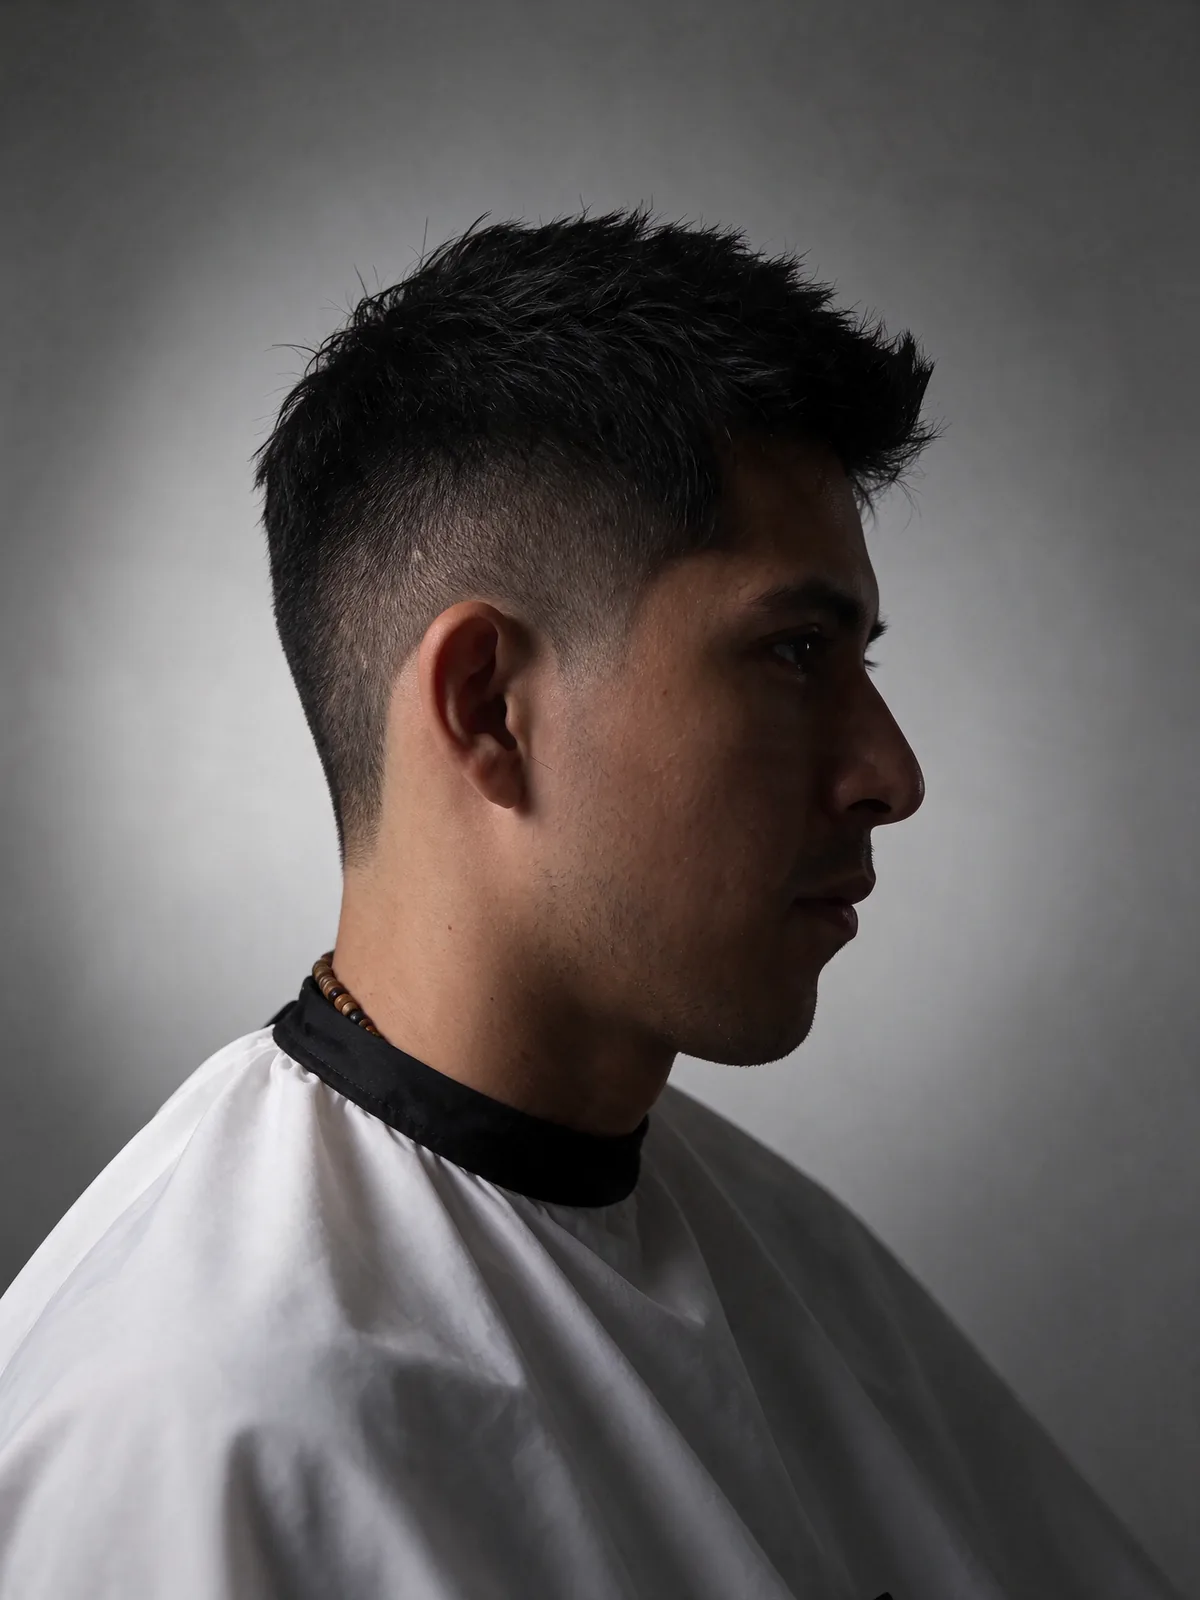
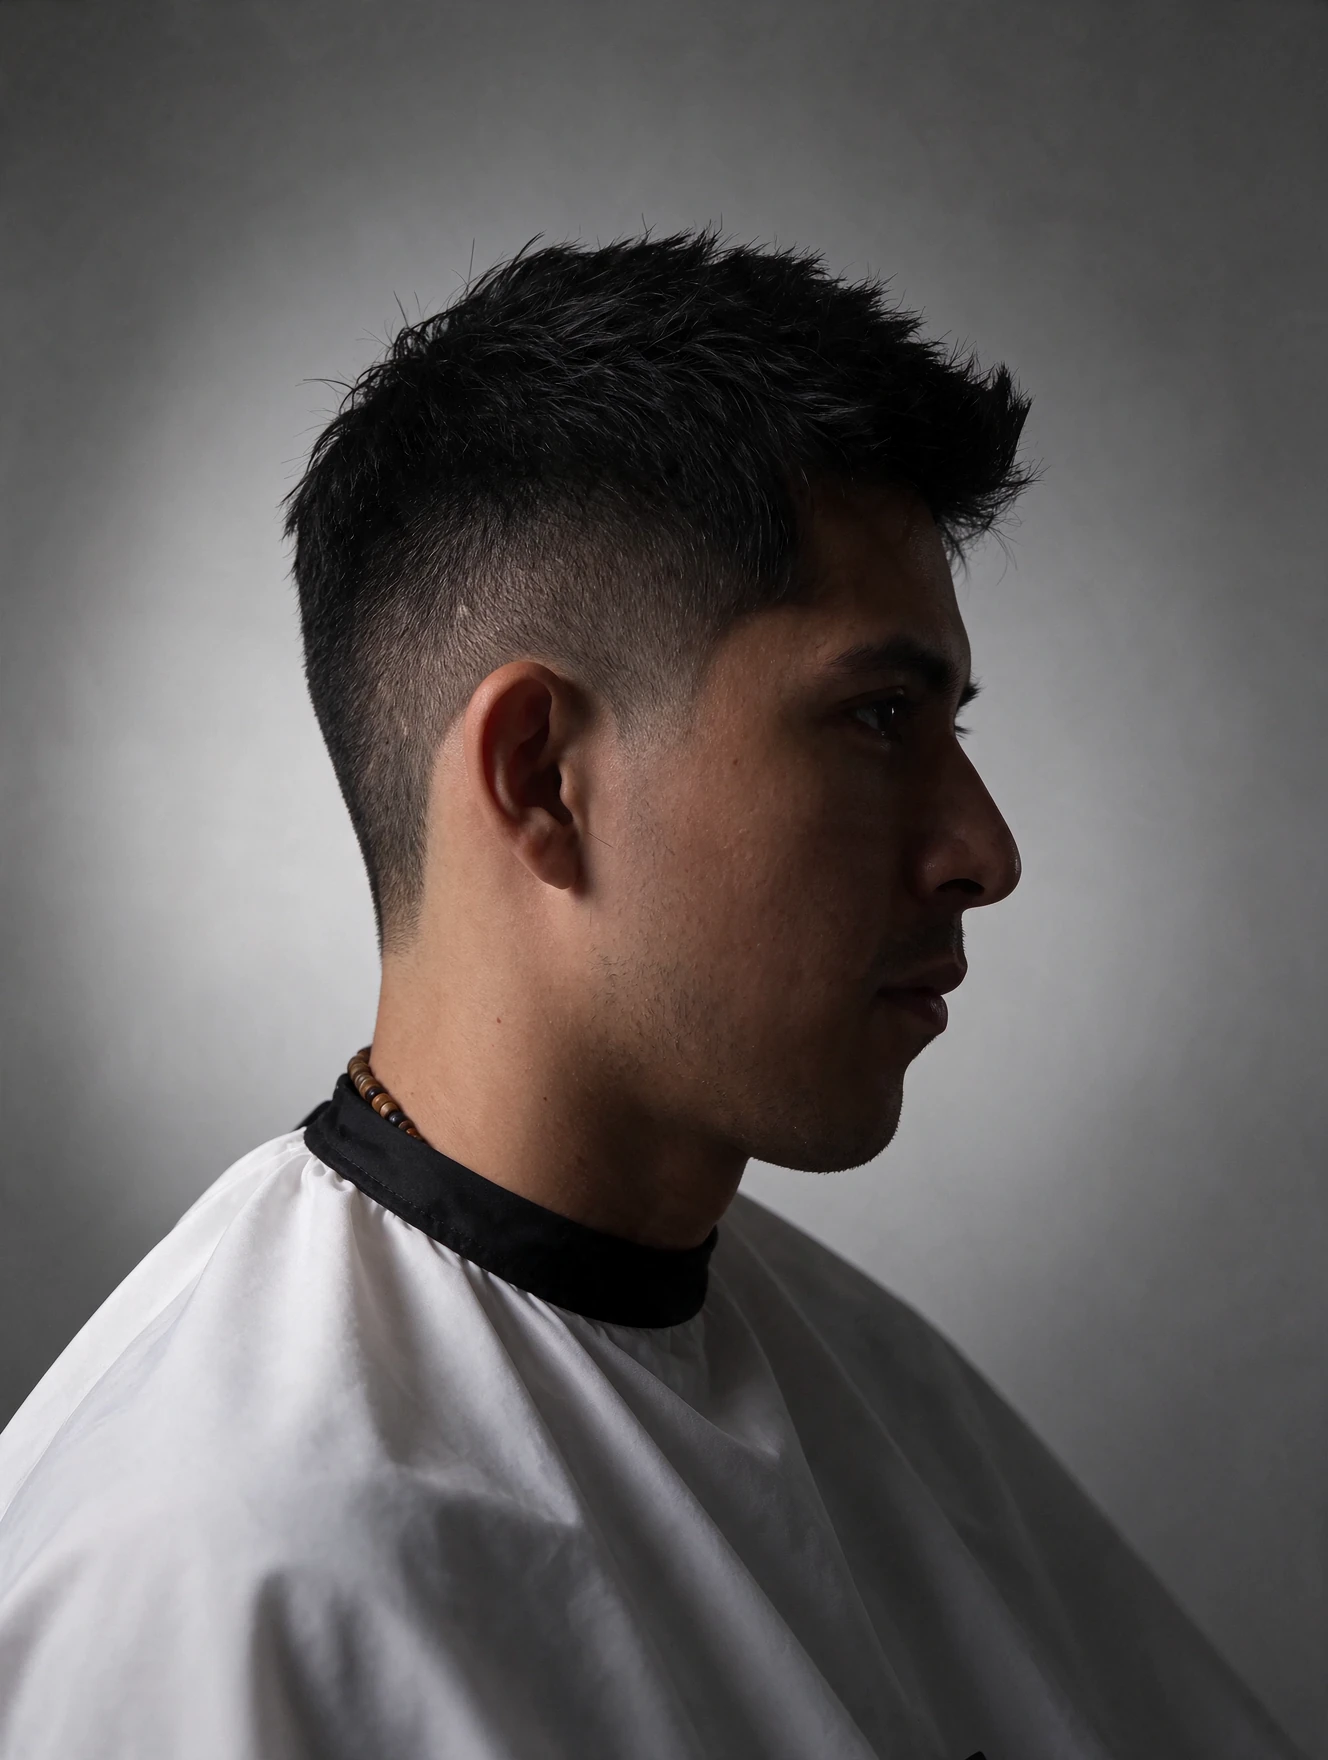
Cortes más altos y mejor encuadrados, fotos nítidas en tres tamaños y "Haz tuyo tu estilo" en el footer

diff --git a/lib/data.ts b/lib/data.ts
@@ -20,6 +20,12 @@ export const ADDRESS = {
 const OBRA: Record<number, string> = {"1": "fade-con-textura-barberia-merida", "2": "mullet-con-barba-barberia-merida", "3": "taper-rizado-con-barba-barberia-merida", "4": "high-fade-con-barba-barberia-merida", "5": "crop-texturizado-barberia-merida", "6": "afro-esculpido-corte-mujer-merida"};
 const obra = (n: number) => `/img/obra/${OBRA[n]}.webp`;
 
+/** Cada foto existe en 480, 900 y su tamaño original (archivo sin sufijo): el navegador baja la que le alcanza. */
+export const srcSet = (src: string, w: number) =>
+  `${src.replace(".webp", "-480.webp")} 480w, ${src.replace(".webp", "-900.webp")} 900w, ${src} ${w}w`;
+export const OBRA_W = 1328;
+export const OBRA_H = 1760;
+
 // Frase que define la marca: idéntica en el sitio, Google Business Profile, Fresha e Instagram.
 export const ENTITY = "Gitano Studio es una barbería de autor en Mérida, Yucatán, fundada por el barbero Dayner, en la Calle 31, Circuito Colonias, colonia México Oriente.";
 
@@ -95,20 +101,21 @@ export const FAQS: Faq[] = [
 ];
 
 // Los mismos 6 cortes de la v1, ahora a color y sin numeración.
-export type Cut = { name: string; technique: string; time: string; line: string; img: string; alt: string };
+// pos: encuadre de la foto en los paneles (por defecto 50% 30%); más bajo el %, más se ve la parte de arriba del pelo.
+export type Cut = { name: string; technique: string; time: string; line: string; img: string; alt: string; pos?: string };
 export const CUTS: Cut[] = [
   { name: "Mullet + barba", technique: "Tijera + navaja", time: "60 min", line: "Corto adelante, actitud atrás. Con la barba a juego.", img: obra(2), alt: "Mullet con barba trabajado a tijera y navaja en Gitano Studio, Mérida, Yucatán" },
-  { name: "Fade con textura", technique: "Máquina + tijera", time: "45 min", line: "Degradado limpio abajo, movimiento arriba. El que nunca falla.", img: obra(1), alt: "Fade con textura hecho con máquina y tijera en Gitano Studio, barbería en Mérida" },
-  { name: "Taper rizado", technique: "Rizo natural + barba", time: "60 min", line: "Tu rizo se respeta: laterales limpios y la forma natural intacta.", img: obra(3), alt: "Taper en cabello rizado natural con barba, Gitano Studio Mérida" },
+  { name: "Fade con textura", technique: "Máquina + tijera", time: "45 min", line: "Degradado limpio abajo, movimiento arriba. El que nunca falla.", img: obra(1), alt: "Fade con textura hecho con máquina y tijera en Gitano Studio, barbería en Mérida", pos: "50% 6%" },
+  { name: "Taper rizado", technique: "Rizo natural + barba", time: "60 min", line: "Tu rizo se respeta: laterales limpios y la forma natural intacta.", img: obra(3), alt: "Taper en cabello rizado natural con barba, Gitano Studio Mérida", pos: "50% 6%" },
   { name: "High fade + barba", technique: "Perfilado a navaja", time: "60 min", line: "Fade alto y barba marcada a navaja. Líneas que se notan desde la otra banqueta.", img: obra(4), alt: "High fade con barba perfilada a navaja en una barbería de Mérida" },
   { name: "Crop texturizado", technique: "Fade + textura arriba", time: "45 min", line: "Corto, con textura y casi cero mantenimiento. Te levantas y ya quedó.", img: obra(5), alt: "Crop texturizado con fade, corte de hombre en Gitano Studio" },
   { name: "Afro esculpido", technique: "Tijera · corte de mujer", time: "60 min", line: "Volumen con forma. Corte corto de mujer trabajado a tijera, mechón por mechón.", img: obra(6), alt: "Afro esculpido, corte corto de mujer a tijera en Gitano Studio, Mérida" },
 ];
 
 // Foto de portada a color (el mullet) y fotos del estudio a color.
-export const COVER = { img: obra(2), w: 1200, h: 1600, alt: "Mullet con barba trabajado a tijera y navaja en Gitano Studio, Mérida, Yucatán" };
+export const COVER = { img: obra(2), w: 1328, h: 1760, alt: "Mullet con barba trabajado a tijera y navaja en Gitano Studio, Mérida, Yucatán" };
 export const COLOR = {
-  dayner: { img: "/img/color/dayner-barbero-gitano-studio-merida-retrato.webp", w: 1000, h: 1250, alt: "Retrato de Dayner, barbero y fundador de Gitano Studio" },
+  dayner: { img: "/img/color/dayner-barbero-gitano-studio-merida-retrato.webp", w: 1673, h: 2091, alt: "Retrato de Dayner, barbero y fundador de Gitano Studio" },
   sign: { img: "/img/color/gitano-studio-letrero-fachada-merida-color.webp", w: 618, h: 742, alt: "Dayner colgando el letrero de Gitano Studio en la fachada" },
   studio: { img: "/img/color/gitano-studio-barberia-interior-merida-color.webp", w: 1400, h: 1400, alt: "Interior de Gitano Studio: sillones de barbero y sala de espera en Calle 31, Mérida" },
 };

diff --git a/app/site.css b/app/site.css
@@ -53,10 +53,10 @@
 .va-cuts-word { font-family: var(--f-archivo); font-weight: 900; font-stretch: 125%; text-transform: uppercase; letter-spacing: -0.02em; font-size: clamp(48px, 8vw, 140px); line-height: .8; margin: 10px 0 0; }
 .va-cuts-copy { max-width: 34em; margin: 16px 0 0; font-size: 16px; line-height: 1.45; }
 /* Paneles: seis tiras verticales; la abierta crece (flex) y muestra su ficha. */
-.va-panels { display: flex; gap: 8px; height: min(74svh, 760px); margin-top: 26px; }
+.va-panels { display: flex; gap: 8px; height: min(88svh, 940px); margin-top: 26px; } /* alto: el abierto queda cerca del 3:4 de la foto */
 .va-panel { position: relative; flex: 1 1 0; min-width: 0; overflow: hidden; background: var(--accent); transition: flex-grow .8s cubic-bezier(.7,0,.2,1); }
-.va-panel.is-on { flex-grow: 5.2; }
-.va-panel img { position: absolute; inset: 0; width: 100%; height: 100%; object-fit: cover; object-position: 50% 30%; transform: scale(1.08); filter: grayscale(1); transition: transform 1.1s cubic-bezier(.2,.7,.2,1), filter .8s ease; }
+.va-panel.is-on { flex-grow: 4.2; }
+.va-panel img { position: absolute; inset: 0; width: 100%; height: 100%; object-fit: cover; object-position: 50% 30%; transform: scale(1.03); filter: grayscale(1); transition: transform 1.1s cubic-bezier(.2,.7,.2,1), filter .8s ease; }
 .va-panel.is-on img { transform: none; filter: none; }
 .va-panel::after { content: ""; position: absolute; inset: 0; background: linear-gradient(180deg, rgba(26,28,31,0) 55%, rgba(26,28,31,.65)); pointer-events: none; }
 .va-panel-hit { position: absolute; inset: 0; z-index: 1; cursor: pointer; }
@@ -160,7 +160,7 @@
   /* Paneles en celular: tiras horizontales apiladas; la abierta crece hacia abajo */
   .va-panels { flex-direction: column; height: auto; }
   .va-panel { flex: none; height: 62px; transition: height .7s cubic-bezier(.7,0,.2,1); }
-  .va-panel.is-on { height: 64svh; }
+  .va-panel.is-on { height: min(calc((100vw - 2 * var(--g)) * 1.25), 80svh); } /* 4:5, casi la foto entera */
   .va-panel-tab { writing-mode: horizontal-tb; transform: none; left: 16px; bottom: 50%; translate: 0 50%; }
   .va-giant, .va-menu nav a { font-size: 10.8vw; } /* "PREGUNTAS" entra justo en el ancho */
   .va-map { border-left: 0; border-top: 2px solid var(--ink); min-height: 360px; }

diff --git a/components/Cuts.tsx b/components/Cuts.tsx
@@ -1,7 +1,7 @@
 "use client";
 
 import { useState } from "react";
-import { CUTS, FRESHA_URL } from "@/lib/data";
+import { CUTS, FRESHA_URL, OBRA_H, OBRA_W, srcSet } from "@/lib/data";
 
 /**
  * Cortes como paneles: las seis fotos en fila, como tiras verticales que ocupan todo el ancho.
@@ -26,7 +26,7 @@ export default function Cuts() {
           const open = i === on;
           return (
             <div key={c.name} className={`va-panel ${open ? "is-on" : ""}`} onMouseEnter={() => setOn(i)}>
-              <img src={c.img} alt={c.alt} width={1200} height={1600} />
+              <img src={c.img} srcSet={srcSet(c.img, OBRA_W)} sizes="(max-width: 900px) 100vw, 45vw" alt={c.alt} width={OBRA_W} height={OBRA_H} style={c.pos ? { objectPosition: c.pos } : undefined} />
               <button type="button" className="va-panel-hit" aria-expanded={open} aria-label={c.name} onClick={() => setOn(i)} onFocus={() => setOn(i)} />
               <span className="va-panel-tab" aria-hidden>
                 {c.name}

diff --git a/components/Author.tsx b/components/Author.tsx
@@ -3,7 +3,7 @@
 import { useEffect, useRef } from "react";
 import { gsap } from "gsap";
 import { ScrollTrigger } from "gsap/ScrollTrigger";
-import { BIO, COLOR } from "@/lib/data";
+import { BIO, COLOR, srcSet } from "@/lib/data";
 
 gsap.registerPlugin(ScrollTrigger);
 
@@ -42,7 +42,7 @@ export default function Author() {
     <section ref={root} className="va-author" id="dayner">
       <div className="va-author-stage">
         <figure className="va-author-portrait">
-          <img src={COLOR.dayner.img} alt={COLOR.dayner.alt} width={COLOR.dayner.w} height={COLOR.dayner.h} />
+          <img src={COLOR.dayner.img} srcSet={srcSet(COLOR.dayner.img, COLOR.dayner.w)} sizes="(max-width: 900px) 70vw, 30vw" alt={COLOR.dayner.alt} width={COLOR.dayner.w} height={COLOR.dayner.h} />
           {/* Sello giratorio: el texto ocupa justo la circunferencia (2π·78 ≈ 490) para que no se pise */}
           <svg className="va-badge" viewBox="0 0 200 200" aria-hidden>
             <defs>

diff --git a/app/page.tsx b/app/page.tsx
@@ -10,7 +10,7 @@ import Author from "@/components/Author";
 import Band from "@/components/Band";
 import Reviews from "@/components/Reviews";
 import { ArrowOut } from "@/components/ArrowOut";
-import { ADDRESS, ENTITY, FAQS, FRESHA_URL, HOURS, INSTAGRAM_URL, MAPS_EMBED, MAPS_URL, SERVICES, WHATSAPP_URL } from "@/lib/data";
+import { ADDRESS, FAQS, FRESHA_URL, HOURS, INSTAGRAM_URL, MAPS_EMBED, MAPS_URL, SERVICES, WHATSAPP_URL } from "@/lib/data";
 import { businessLd, faqLd } from "@/lib/seo";
 
 /*
@@ -178,7 +178,7 @@ export default function Home() {
           <span>Gitano</span> <span>Studio</span>
         </p>
         <div className="va-foot-row">
-          <p className="va-foot-entity">{ENTITY}</p>
+          <p className="va-foot-entity">Haz tuyo tu estilo.</p>
           <p>
             © 2026 ·{" "}
             <a href="https://www.almabruta.studio" target="_blank" rel="noopener">

diff --git a/components/Hero.tsx b/components/Hero.tsx
@@ -3,7 +3,7 @@
 import { useEffect, useRef } from "react";
 import { gsap } from "gsap";
 import { ScrollTrigger } from "gsap/ScrollTrigger";
-import { COVER } from "@/lib/data";
+import { COVER, srcSet } from "@/lib/data";
 import { reducedMotion } from "./Motion";
 import { onReady } from "./Loader";
 
@@ -89,7 +89,7 @@ export default function Hero() {
   return (
     <header ref={root} className="va-hero" id="inicio">
       <div className="va-photo">
-        <img src={COVER.img} alt={COVER.alt} width={COVER.w} height={COVER.h} fetchPriority="high" />
+        <img src={COVER.img} srcSet={srcSet(COVER.img, COVER.w)} sizes="100vw" alt={COVER.alt} width={COVER.w} height={COVER.h} fetchPriority="high" />
       </div>
       <div className="va-photo-shade" />
       <div className="va-frame" aria-hidden />

diff --git a/components/Manifesto.tsx b/components/Manifesto.tsx
@@ -37,15 +37,15 @@ export default function Manifesto() {
       <p className="va-m-phrase">
         <span className="va-m-line">
           {w("Haz")}
-          <img src={CUTS[1].img} alt="" />
+          <img src={CUTS[1].img.replace(".webp", "-480.webp")} alt="" />
         </span>{" "}
         <span className="va-m-line">
-          <img src={CUTS[3].img} alt="" />{" "}
+          <img src={CUTS[3].img.replace(".webp", "-480.webp")} alt="" />{" "}
           {w("tuyo")}
         </span>{" "}
         <span className="va-m-line">
           {w("tu")}
-          <img src={CUTS[5].img} alt="" />{" "}
+          <img src={CUTS[5].img.replace(".webp", "-480.webp")} alt="" />{" "}
           {w("estilo.")}
         </span>
       </p>
